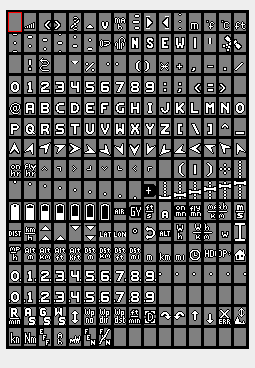
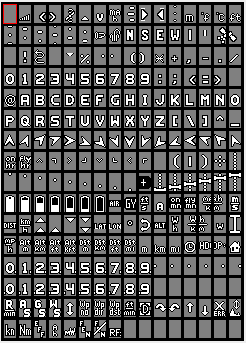
AP_OSD: add rangefinder panel

diff --git a/libraries/AP_OSD/AP_OSD_Screen.cpp b/libraries/AP_OSD/AP_OSD_Screen.cpp
@@ -39,6 +39,7 @@
 #include <AP_OLC/AP_OLC.h>
 #include <AP_VideoTX/AP_VideoTX.h>
 #include <AP_Terrain/AP_Terrain.h>
+#include <AP_RangeFinder/AP_RangeFinder.h>
 #if APM_BUILD_TYPE(APM_BUILD_Rover)
 #include <AP_WindVane/AP_WindVane.h>
 #endif
@@ -976,6 +977,22 @@ const AP_Param::GroupInfo AP_OSD_Screen::var_info[] = {
     // @Description: Vertical position on screen
     // @Range: 0 15
     AP_SUBGROUPINFO(fence, "FENCE", 59, AP_OSD_Screen, AP_OSD_Setting),
+
+    // @Param: RNGF_EN
+    // @DisplayName: RNGF_EN
+    // @Description: Displays a rangefinder's distance in cm
+    // @Values: 0:Disabled,1:Enabled
+
+    // @Param: RNGF_X
+    // @DisplayName: RNGF_X
+    // @Description: Horizontal position on screen
+    // @Range: 0 29
+
+    // @Param: RNGF_Y
+    // @DisplayName: RNGF_Y
+    // @Description: Vertical position on screen
+    // @Range: 0 15
+    AP_SUBGROUPINFO(rngf, "RNGF", 60, AP_OSD_Screen, AP_OSD_Setting),
     AP_GROUPEND
 };
 
@@ -1074,6 +1091,7 @@ AP_OSD_Screen::AP_OSD_Screen()
 #define SYM_TERALT 0xEF
 #define SYM_FENCE_ENABLED 0xF5
 #define SYM_FENCE_DISABLED 0xF6
+#define SYM_RNGFD     0xF7
 
 
 void AP_OSD_AbstractScreen::set_backend(AP_OSD_Backend *_backend)
@@ -1967,6 +1985,18 @@ void AP_OSD_Screen::draw_fence(uint8_t x, uint8_t y)
     }
 }
 
+void AP_OSD_Screen::draw_rngf(uint8_t x, uint8_t y)
+{
+    RangeFinder *rangefinder = RangeFinder::get_singleton();
+    if (rangefinder == nullptr) {
+       return;
+    }
+    if (rangefinder->status_orient(ROTATION_PITCH_270) <= RangeFinder::Status::NoData) {
+        backend->write(x, y, false, "%cNO DATA", SYM_RNGFD);
+    } else {
+        backend->write(x, y, false, "%c%2.2f%c", SYM_RNGFD, u_scale(DISTANCE, (rangefinder->distance_cm_orient(ROTATION_PITCH_270) * 0.01f)), u_icon(DISTANCE));
+    }
+}
 
 #define DRAW_SETTING(n) if (n.enabled) draw_ ## n(n.xpos, n.ypos)
 
@@ -1989,6 +2019,7 @@ void AP_OSD_Screen::draw(void)
     DRAW_SETTING(hgt_abvterr);
 #endif
 
+    DRAW_SETTING(rngf);
     DRAW_SETTING(waypoint);
     DRAW_SETTING(xtrack_error);
     DRAW_SETTING(bat_volt);

diff --git a/libraries/AP_OSD/AP_OSD.h b/libraries/AP_OSD/AP_OSD.h
@@ -183,6 +183,7 @@ private:
     AP_OSD_Setting vtx_power{false, 0, 0};
     AP_OSD_Setting hgt_abvterr{false, 23, 7};
     AP_OSD_Setting fence{false, 14, 9};
+    AP_OSD_Setting rngf{false, 0, 0};
 #if HAL_PLUSCODE_ENABLE
     AP_OSD_Setting pluscode{false, 0, 0};
 #endif
@@ -254,6 +255,7 @@ private:
     void draw_vtx_power(uint8_t x, uint8_t y);
     void draw_hgt_abvterr(uint8_t x, uint8_t y);
     void draw_fence(uint8_t x, uint8_t y);
+    void draw_rngf(uint8_t x, uint8_t y);
 
 
     struct {
